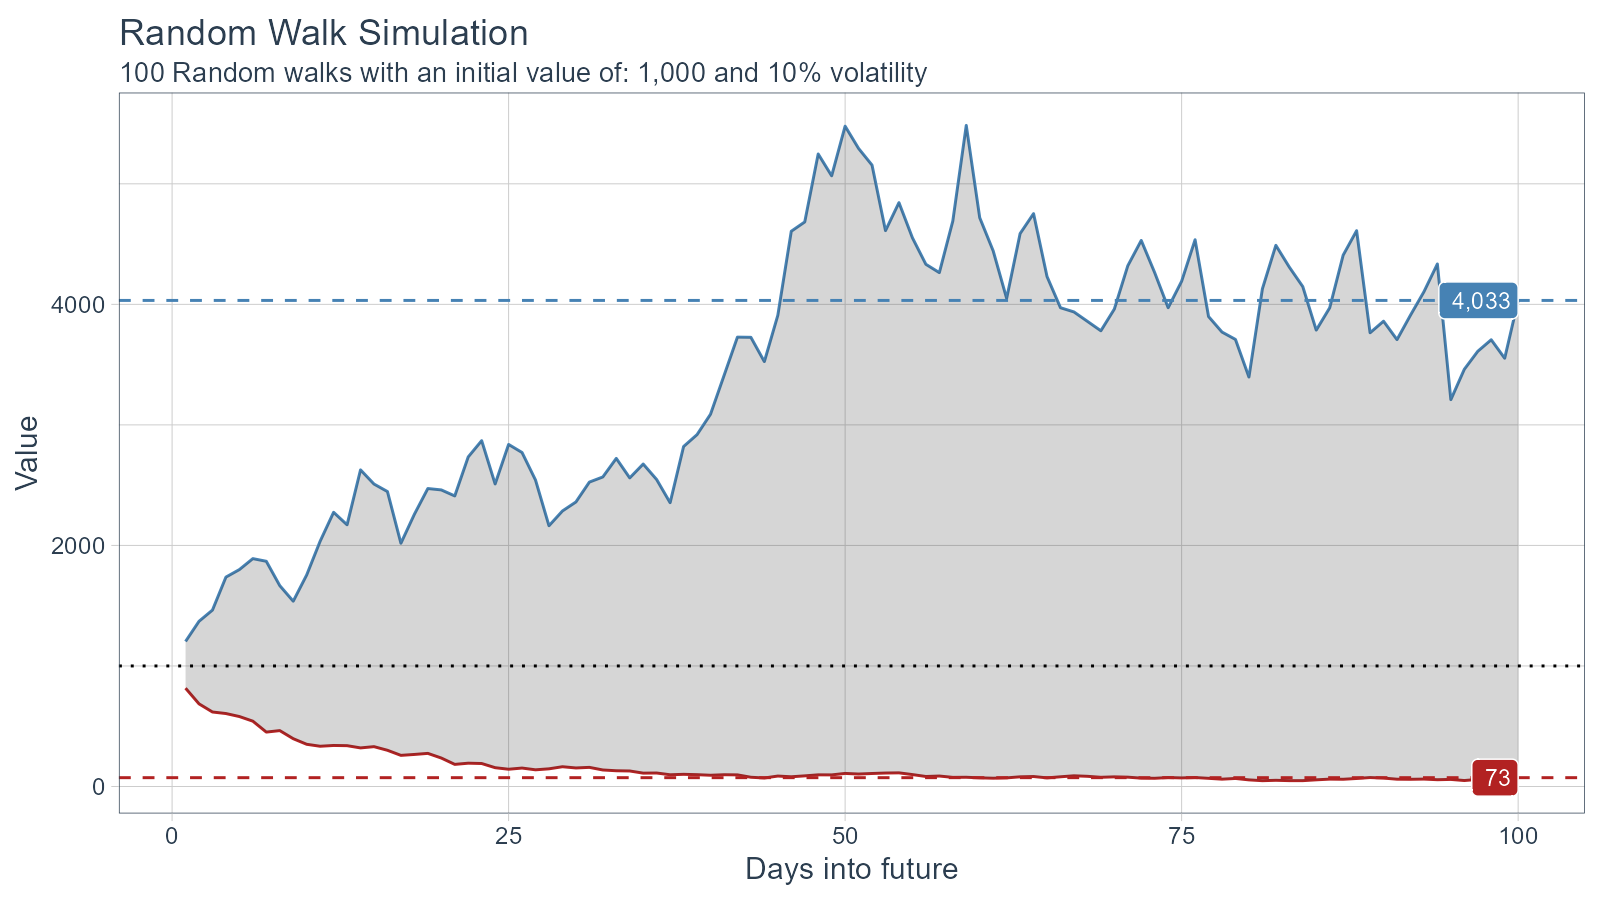
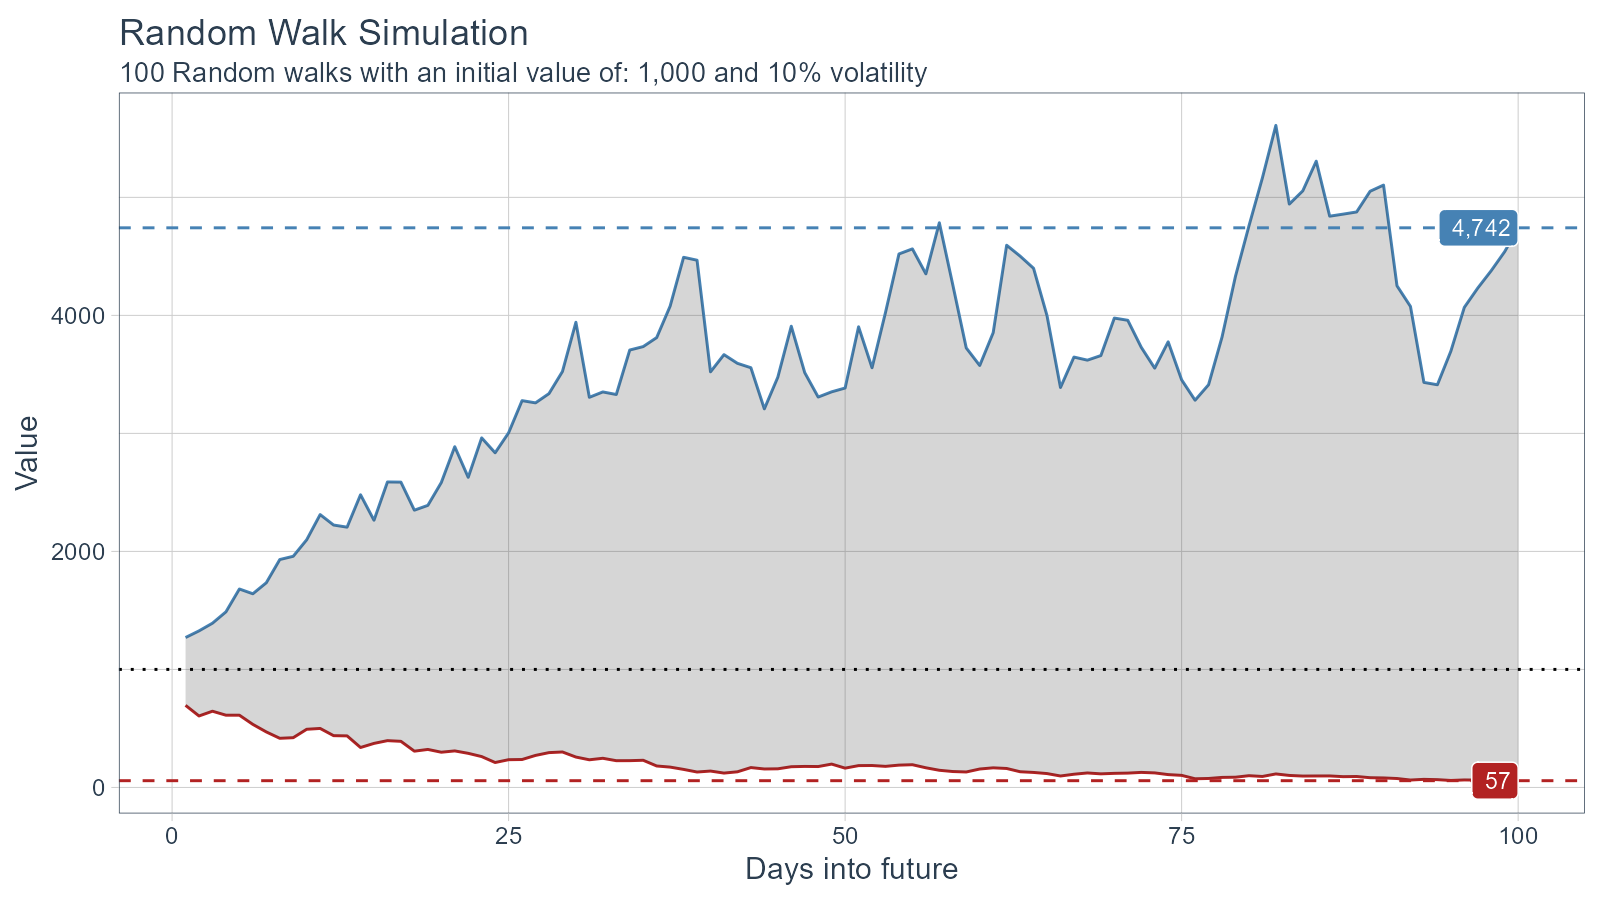
rebuild site

diff --git a/docs/articles/getting-started.html b/docs/articles/getting-started.html
@@ -93,7 +93,7 @@
             <h3 class="subtitle">A Quick Introduction</h3>
                         <h4 class="author">Steven P. Sanderson II, MPH</h4>
             
-            <h4 class="date">2021-08-15</h4>
+            <h4 class="date">2021-08-16</h4>
       
       <small class="dont-index">Source: <a href="https://github.com/spsanderson/healthyR.ts/blob/master/vignettes/getting-started.Rmd"><code>vignettes/getting-started.Rmd</code></a></small>
       <div class="hidden name"><code>getting-started.Rmd</code></div>
@@ -114,19 +114,19 @@
 <span class="co">#&gt; # A tibble: 6 x 4</span>
 <span class="co">#&gt;     run     x       y cum_y</span>
 <span class="co">#&gt;   &lt;dbl&gt; &lt;dbl&gt;   &lt;dbl&gt; &lt;dbl&gt;</span>
-<span class="co">#&gt; 1     1     1  0.0531 1053.</span>
-<span class="co">#&gt; 2     1     2  0.0350 1090.</span>
-<span class="co">#&gt; 3     1     3 -0.158   917.</span>
-<span class="co">#&gt; 4     1     4 -0.0278  892.</span>
-<span class="co">#&gt; 5     1     5 -0.277   645.</span>
-<span class="co">#&gt; 6     1     6 -0.0407  619.</span>
+<span class="co">#&gt; 1     1     1 -0.0978  902.</span>
+<span class="co">#&gt; 2     1     2 -0.119   795.</span>
+<span class="co">#&gt; 3     1     3 -0.121   699.</span>
+<span class="co">#&gt; 4     1     4  0.0109  706.</span>
+<span class="co">#&gt; 5     1     5 -0.103   634.</span>
+<span class="co">#&gt; 6     1     6  0.0593  671.</span>
 <span class="fu"><a href="https://pillar.r-lib.org/reference/glimpse.html">glimpse</a></span><span class="op">(</span><span class="va">df</span><span class="op">)</span>
 <span class="co">#&gt; Rows: 10,000</span>
 <span class="co">#&gt; Columns: 4</span>
 <span class="co">#&gt; $ run   &lt;dbl&gt; 1, 1, 1, 1, 1, 1, 1, 1, 1, 1, 1, 1, 1, 1, 1, 1, 1, 1, 1, 1, 1, 1~</span>
 <span class="co">#&gt; $ x     &lt;dbl&gt; 1, 2, 3, 4, 5, 6, 7, 8, 9, 10, 11, 12, 13, 14, 15, 16, 17, 18, 1~</span>
-<span class="co">#&gt; $ y     &lt;dbl&gt; 5.310605e-02, 3.499312e-02, -1.584278e-01, -2.783370e-02, -2.766~</span>
-<span class="co">#&gt; $ cum_y &lt;dbl&gt; 1053.1060, 1089.9575, 917.2780, 891.7467, 645.0601, 618.8050, 62~</span></code></pre></div>
+<span class="co">#&gt; $ y     &lt;dbl&gt; -0.097804955, -0.118647355, -0.121280834, 0.010850996, -0.102553~</span>
+<span class="co">#&gt; $ cum_y &lt;dbl&gt; 902.1950, 795.1520, 698.7153, 706.2970, 633.8641, 671.4434, 730.~</span></code></pre></div>
 <p>Now that the data has been generated, lets take a look at it.</p>
 <div class="sourceCode" id="cb3"><pre class="downlit sourceCode r">
 <code class="sourceCode R"><span class="va">df</span> <span class="op">%&gt;%</span>

diff --git a/docs/news/index.html b/docs/news/index.html
@@ -150,13 +150,13 @@
 <h2 class="hasAnchor">
 <a href="#new-features" class="anchor"></a>New Features</h2>
 <ol>
-<li>Fix <a href='https://github.com/spsanderson/healthyR.ts/issues/36'>#36</a> - Add <code>ts_forecast_simulator</code> function</li>
-<li>Fix <a href='https://github.com/spsanderson/healthyR.ts/issues/45'>#45</a> - Add <code>calibrate_and_plot</code> helper function</li>
-<li>Fix <a href='https://github.com/spsanderson/healthyR.ts/issues/46'>#46</a> - Add <code>ts_wfs_lin_reg</code>, <code>ts_wfs_mars</code>, <code>ts_wfs_svm_poly</code>, <code>ts_wfs_svm_rbf</code>
+<li>Fix <a href='https://github.com/spsanderson/healthyR.ts/issues/36'>#36</a> - Add <code><a href="../reference/ts_forecast_simulator.html">ts_forecast_simulator()</a></code> function</li>
+<li>Fix <a href='https://github.com/spsanderson/healthyR.ts/issues/45'>#45</a> - Add <code><a href="../reference/calibrate_and_plot.html">calibrate_and_plot()</a></code> helper function</li>
+<li>Fix <a href='https://github.com/spsanderson/healthyR.ts/issues/46'>#46</a> - Add <code><a href="../reference/ts_wfs_lin_reg.html">ts_wfs_lin_reg()</a></code>, <code>ts_wfs_mars</code>, <code>ts_wfs_svm_poly</code>, <code>ts_wfs_svm_rbf</code>
 </li>
-<li>Fix <a href='https://github.com/spsanderson/healthyR.ts/issues/47'>#47</a> - Add <code>model_extraction</code> helper function</li>
-<li>Fix <a href='https://github.com/spsanderson/healthyR.ts/issues/51'>#51</a> - Add <code>ts_ma_plot</code> plotting function</li>
-<li>Fix <a href='https://github.com/spsanderson/healthyR.ts/issues/59'>#59</a> - Add <code>ts_calendar_heatmap_plt()</code> plotting function</li>
+<li>Fix <a href='https://github.com/spsanderson/healthyR.ts/issues/47'>#47</a> - Add <code><a href="../reference/model_extraction_helper.html">model_extraction_helper()</a></code> helper function</li>
+<li>Fix <a href='https://github.com/spsanderson/healthyR.ts/issues/51'>#51</a> - Add <code><a href="../reference/ts_ma_plot.html">ts_ma_plot()</a></code> plotting function</li>
+<li>Fix <a href='https://github.com/spsanderson/healthyR.ts/issues/59'>#59</a> - Add <code><a href="../reference/ts_calendar_heatmap_plot.html">ts_calendar_heatmap_plot()</a></code> plotting function</li>
 <li>Fix <a href='https://github.com/spsanderson/healthyR.ts/issues/65'>#65</a> - Add <code><a href="../reference/ts_splits_plot.html">ts_splits_plot()</a></code> plotting function</li>
 </ol>
 </div>

diff --git a/docs/reference/index.html b/docs/reference/index.html
@@ -266,6 +266,25 @@
     </tbody><tbody>
       <tr>
         <th colspan="2">
+          <h2 id="section-time-series-auto-workflowsets" class="hasAnchor"><a href="#section-time-series-auto-workflowsets" class="anchor"></a>Time Series Auto Workflowsets</h2>
+          <p class="section-desc"><p>healthyR.ts automatic time series workflow set functions</p></p>
+        </th>
+      </tr>
+      
+      
+    </tbody><tbody>
+      
+      
+      <tr>
+        
+        <td>
+          <p><code><a href="ts_wfs_lin_reg.html">ts_wfs_lin_reg()</a></code> </p>
+        </td>
+        <td><p>Linear Regression Workflowset Function</p></td>
+      </tr>
+    </tbody><tbody>
+      <tr>
+        <th colspan="2">
           <h2 id="section-time-series-helper-functions" class="hasAnchor"><a href="#section-time-series-helper-functions" class="anchor"></a>Time Series Helper functions</h2>
           <p class="section-desc"><p>healthyR.ts helper functions</p></p>
         </th>
